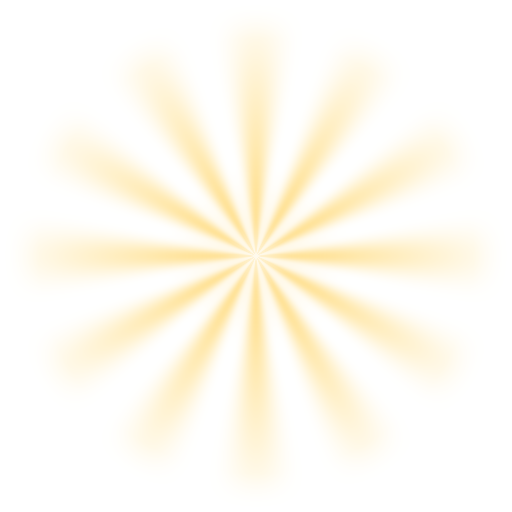
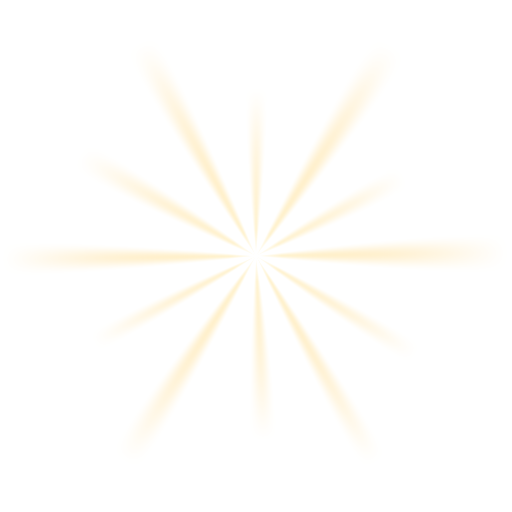
fix(chest): 상자 열기와 모험 상자의 둥근 glow 를 빛줄기로 바꾼다
80x80 FlatCircle 을 230~280 크기로 늘려 쓰던 Glow 를 없앤다.
열기 연출의 Glow 는 prefab 에서 지우고, 모험 상자의 Glow 는 light_rays 로 바꿔 천천히 돌린다.
light_rays.png 는 길이가 다른 12줄기가 끝에서 투명해지도록 다시 그렸고,
열릴 때 0.55배에서 1배로 퍼지며 한 바퀴 40초로 돈다.

Changed region(s): [[0.0938, 0.0625, 0.875, 0.9375]]

diff --git a/Assets/Scripts/RewardChest/RewardChestPresenter.cs b/Assets/Scripts/RewardChest/RewardChestPresenter.cs
@@ -15,8 +15,8 @@ namespace RewardChest
     /// <see cref="closedChestSprite"/> and <see cref="openChestSprite"/> hold the default chest art; a chest
     /// key (passed to <see cref="Play"/>, or the first CHEST reward in the list) swaps in that chest's own art
     /// through <see cref="RewardSpriteResolver"/>. While a closed sprite exists the placeholder lid stays hidden;
-    /// with an open sprite, the body swaps to it on open. The rays turn behind the chest and the sparkles
-    /// twinkle once it is open.
+    /// with an open sprite, the body swaps to it on open. The rays spread out and turn behind the chest and
+    /// the sparkles twinkle once it is open.
     /// </para>
     /// </summary>
     public class RewardChestPresenter : MonoBehaviour
@@ -26,7 +26,6 @@ namespace RewardChest
         [SerializeField] private Image chestBodyImage;
         [SerializeField] private RectTransform chestLid;
         [SerializeField] private Image chestLidImage;
-        [SerializeField] private Image glowImage;
         [SerializeField] private Sprite closedChestSprite;
         [SerializeField] private Sprite openChestSprite;
 
@@ -34,7 +33,7 @@ namespace RewardChest
         [SerializeField] private Image rayImage;
         [SerializeField] private Image[] sparkleImages;
         [SerializeField] private float rayAlpha = 0.8f;
-        [SerializeField] private float raySecondsPerTurn = 24f;
+        [SerializeField] private float raySecondsPerTurn = 40f;
         [SerializeField] private float sparkleSeconds = 0.6f;
         [SerializeField] private float sparkleStaggerSeconds = 0.17f;
 
@@ -182,7 +181,6 @@ namespace RewardChest
             }
 
             SetAlpha(chestLidImage, 1f);
-            SetAlpha(glowImage, 0f);
             SetAlpha(rayImage, 0f);
             if (sparkleImages != null)
             {
@@ -192,9 +190,10 @@ namespace RewardChest
                 }
             }
 
-            if (glowImage != null)
+            if (rayImage != null)
             {
-                glowImage.rectTransform.localScale = Vector3.one * 0.3f;
+                rayImage.rectTransform.localScale = Vector3.one * 0.55f;
+                rayImage.rectTransform.localRotation = Quaternion.identity;
             }
 
             if (chestRoot != null)
@@ -253,10 +252,9 @@ namespace RewardChest
                 sequence.Join(rayImage.DOFade(rayAlpha, openSeconds));
             }
 
-            if (glowImage != null)
+            if (rayImage != null)
             {
-                sequence.Join(glowImage.rectTransform.DOScale(1.3f, openSeconds).SetEase(Ease.OutBack));
-                sequence.Join(glowImage.DOFade(0.85f, openSeconds));
+                sequence.Join(rayImage.rectTransform.DOScale(1f, openSeconds * 1.6f).SetEase(Ease.OutCubic));
             }
 
             yield return WaitOrSkip(sequence);

diff --git a/Assets/Scripts/Adventures/AdventureEndChest.cs b/Assets/Scripts/Adventures/AdventureEndChest.cs
@@ -32,6 +32,7 @@ namespace Adventures
         [SerializeField] private float bobHeight = 12f;
         [SerializeField] private float bobSeconds = 0.8f;
         [SerializeField] private float glowAlpha = 0.7f;
+        [SerializeField] private float glowSecondsPerTurn = 40f;
 
         [Header("Claimed")]
         [SerializeField] private float openLidLift = 28f;
@@ -128,6 +129,12 @@ namespace Adventures
                 glowImage.DOFade(glowAlpha, bobSeconds)
                     .SetEase(Ease.InOutSine)
                     .SetLoops(-1, LoopType.Yoyo)
+                    .SetTarget(this);
+                glowImage.rectTransform.localRotation = Quaternion.identity;
+                glowImage.rectTransform
+                    .DOLocalRotate(new Vector3(0f, 0f, -360f), glowSecondsPerTurn, RotateMode.FastBeyond360)
+                    .SetEase(Ease.Linear)
+                    .SetLoops(-1, LoopType.Restart)
                     .SetTarget(this);
             }
         }
